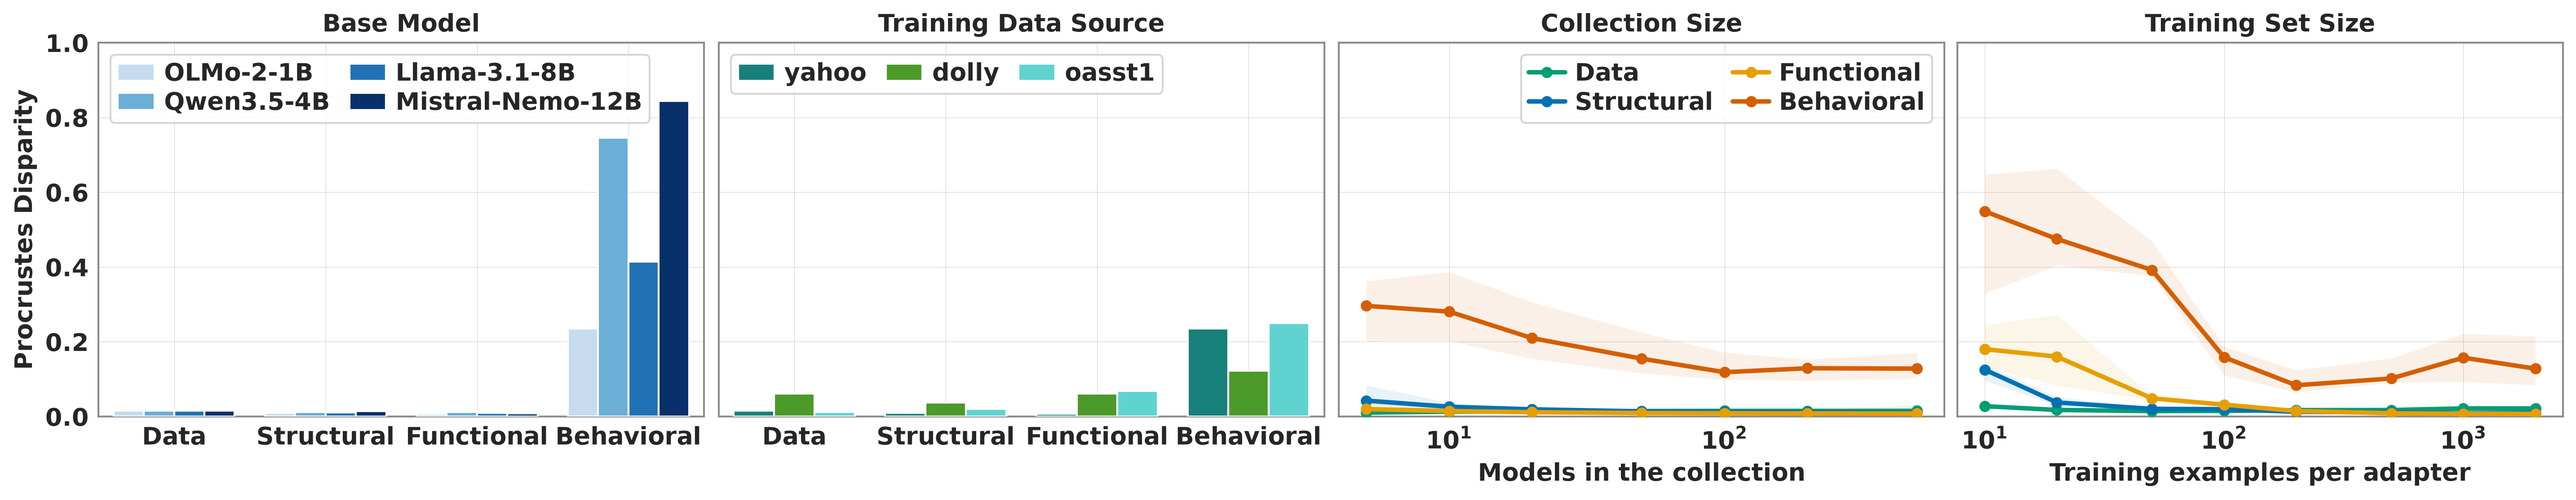
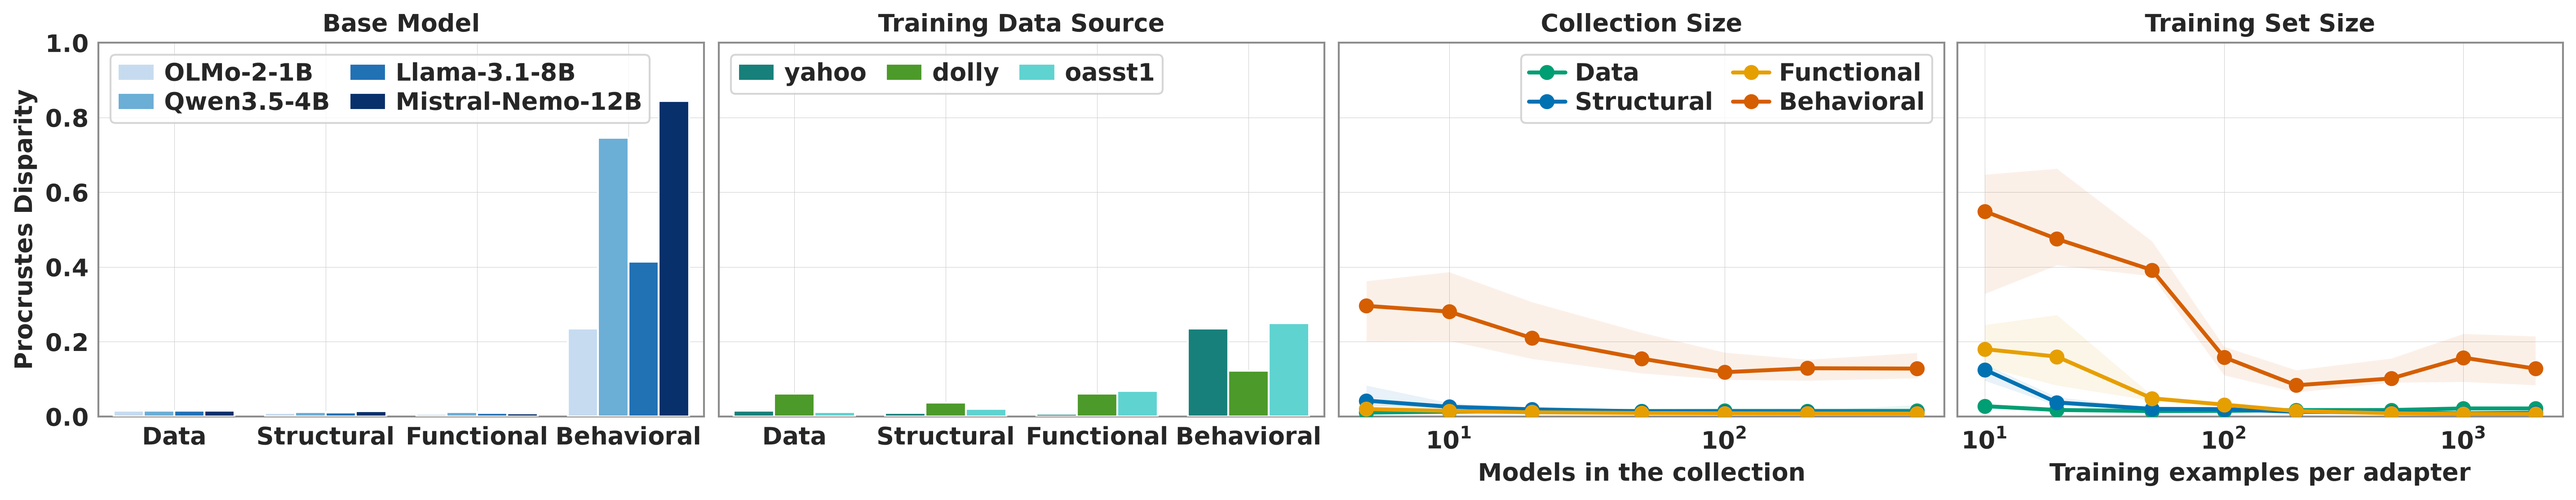
fix(figure2): place the key's labels so none of them collide
A fixed radial offset cannot be right for every point of a triangular grid:
a corner's label has a quadrant to itself, a label in the middle of a row is
boxed in by its neighbours. ternary_legend gains avoid_collisions, which
makes label_offset a floor -- each label that still overlaps another label,
a corner name or any marker is pushed further along its own radius, on
rendered boxes, until nothing overlaps.

Room had to come from somewhere too: at 8 pt bracketed, a label is wider
than the grid spacing, so no placement exists. The key's labels drop to 7 pt
and give up the brackets; the MDS panels keep [x,y,z], where four labels on
a full-size panel have all the room they need.

The MDS markers grow to 150 -- the key follows, since one mark means one
model -- and the gap between the two rows is now ROW_GAP, one knob in the
driver, opened from 0.09 to 0.16.

Claude-Session: https://claude.ai/code/session_013wT22QHA98vYoz6C7ZiiGN

diff --git a/src/plots/simplex.py b/src/plots/simplex.py
@@ -453,6 +453,51 @@ def _in_simplex_frame(coords: np.ndarray, model_ids: Sequence[str]) -> np.ndarra
         return np.asarray(coords, dtype=float)
 
 
+def _spread_labels(ax, anns, dirs, pts, marker_size, fixed=(),
+                   step: float = 2.0, max_extra: float = 60.0) -> None:
+    """Push annotated labels out along their own radii until nothing overlaps.
+
+    A fixed offset cannot be right for every point of a triangular grid: the
+    label of a point near a corner has a whole quadrant to itself, and the label
+    of a point in the middle of a row is boxed in by its two neighbours. So the
+    offset starts at the caller's value and grows, one *step* at a time and only
+    for the labels that are still colliding, until every label clears the other
+    labels, the *fixed* texts (the corner names), and every plotted marker.
+
+    Overlap is measured on rendered boxes, so this draws the figure once per
+    pass; *max_extra* caps how far a label may travel, and a label that is still
+    stuck at the cap simply stops, which is the old behaviour for that one label
+    rather than a label halfway across the panel.
+    """
+    fig = ax.figure
+    fig.canvas.draw()
+    renderer = fig.canvas.get_renderer()
+    # A marker's radius is set in points^2; give it a point of slack so a label
+    # does not sit flush against the circle's edge.
+    radius = (np.sqrt(marker_size) / 2.0 + 1.0) * fig.dpi / 72.0
+    xy = ax.transData.transform(pts)
+    base = [np.asarray(a.xyann, dtype=float) for a in anns]
+    extra = np.zeros(len(anns))
+
+    for _ in range(int(max_extra / step)):
+        boxes = [a.get_window_extent(renderer) for a in anns]
+        blocked = [f.get_window_extent(renderer) for f in fixed]
+        hits = [
+            any(i != j and b.overlaps(c) for j, c in enumerate(boxes))
+            or any(b.overlaps(c) for c in blocked)
+            or any(b.x0 - radius < x < b.x1 + radius
+                   and b.y0 - radius < y < b.y1 + radius for x, y in xy)
+            for i, b in enumerate(boxes)
+        ]
+        movable = [i for i, h in enumerate(hits) if h and extra[i] < max_extra]
+        if not movable:
+            return
+        for i in movable:
+            extra[i] += step
+            anns[i].xyann = tuple(base[i] + dirs[i] * extra[i])
+        fig.canvas.draw()
+
+
 def ternary_legend(
     ax: plt.Axes,
     model_ids: Sequence[str] | None = None,
@@ -471,6 +516,7 @@ def ternary_legend(
     pad: float | None = None,
     outline_color: str = "0.35",
     label_offset: float = 9.5,
+    avoid_collisions: bool = False,
 ) -> plt.Axes:
     """Draw the filled simplex that the point colours are read from.
 
@@ -493,7 +539,10 @@ def ternary_legend(
     a figure drawing its own axes usually wants to match them.
     *label_offset* is how far, in points, each mixture label is pushed out along
     its own radius -- the lever for a key whose triangle is drawn small, where
-    the sixteen labels crowd at the default.
+    the sixteen labels crowd at the default. *avoid_collisions* makes that
+    offset a floor rather than a fixed value: a label that still overlaps
+    another label, a corner name or a marker is pushed further out until it does
+    not (see :func:`_spread_labels`).
 
     **Three groups only.** ``_bary_to_xy`` maps onto a triangle and this function
     labels three corners; a tetrahedron has no honest 2-D barycentric picture, so
@@ -541,6 +590,9 @@ def ternary_legend(
     if fontfamily is not None:
         text_kw["fontfamily"] = fontfamily
 
+    mix_anns: list = []
+    mix_dirs: list = []
+    pts = None
     if model_ids:
         pts = _bary_to_xy(np.array([mixture_weights(m) for m in model_ids]))
         if fill_points:
@@ -559,13 +611,13 @@ def ternary_legend(
             for (x, y), mid in zip(pts, model_ids):
                 d = np.array([x, y]) - mid_xy
                 n = np.linalg.norm(d)
-                dx, dy = ((d / n * label_offset) if n > 1e-9
-                          else (0.0, label_offset * 0.85))
-                ax.annotate(
-                    label_fmt(mid), xy=(x, y), xytext=(dx, dy),
+                unit = (d / n) if n > 1e-9 else np.array([0.0, 0.85])
+                mix_dirs.append(unit)
+                mix_anns.append(ax.annotate(
+                    label_fmt(mid), xy=(x, y), xytext=tuple(unit * label_offset),
                     textcoords="offset points", ha="center", va="center",
                     fontsize=label_size, color="0.15", zorder=4, **text_kw,
-                )
+                ))
 
     # Default to the `g1`/`g2`/`g3` shorthand: the dense surrogate x metric grids have
     # no room for "Group 1", and only the cross-taxonomy figure is aimed at a
@@ -575,6 +627,7 @@ def ternary_legend(
     # labelled the vertex name has to clear that label rather than land on top
     # of it. The radial offset above is 9.5pt, so the name goes beyond it.
     up, down = (26, -25) if (model_ids and label_models) else (13, -11)
+    corner_anns: list = []
     for (x, y), key, va, ha in [
         ((0.5, _SQRT3_2), "g1", "bottom", "center"),
         ((1.0, 0.0), "g2", "top", "left"),
@@ -583,13 +636,23 @@ def ternary_legend(
         label = names.get(key, key)
         if show_topics:
             label += "\n[" + ",".join(str(t) for t in GROUP_TOPICS[key]) + "]"
-        ax.annotate(label, xy=(x, y),
-                    xytext=(0, up) if va == "bottom" else (0, down),
-                    textcoords="offset points", ha=ha, va=va,
-                    fontsize=vertex_size, color="0.15", **text_kw)
+        corner_anns.append(ax.annotate(
+            label, xy=(x, y),
+            xytext=(0, up) if va == "bottom" else (0, down),
+            textcoords="offset points", ha=ha, va=va,
+            fontsize=vertex_size, color="0.15", **text_kw))
 
     if pad is None:
         pad = 0.30 if (model_ids and label_models) else 0.22
+    if mix_anns and avoid_collisions:
+        # After the limits are set, not before: the labels are placed in points
+        # off a data point, so where they land depends on the data-to-display
+        # scale this establishes.
+        ax.set_xlim(-pad, 1.0 + pad)
+        ax.set_ylim(-pad, _SQRT3_2 + pad * 0.9)
+        ax.set_aspect("equal")
+        _spread_labels(ax, mix_anns, mix_dirs, pts, marker_size,
+                       fixed=corner_anns)
     ax.set_xlim(-pad, 1.0 + pad)
     ax.set_ylim(-pad, _SQRT3_2 + pad * 0.9)
     ax.set_aspect("equal")

diff --git a/figures/figure2/make_figures.py b/figures/figure2/make_figures.py
@@ -217,8 +217,8 @@ CORPUS_COLORS = {"yahoo": "#17807A", "dolly": "#4C9A2A", "oasst1": "#5FD3D0"}
 SWEEP_LINESTYLE = "-"
 
 #: The curves carry the panel, so they are drawn heavier than a default line.
-SWEEP_LINEWIDTH = 2.4
-SWEEP_MARKER_SIZE = 5
+SWEEP_LINEWIDTH = 2.1
+SWEEP_MARKER_SIZE = 7
 
 #: The IQR band is context for its curve, not a second series. Faint enough that
 #: two overlapping bands do not read as a third colour.
@@ -257,14 +257,14 @@ MDS_AXES = ("MDS 1", "MDS 2")
 #: ``75/25/0`` and the bottom row of five is a single smear. The key is a dense
 #: legend rather than a panel, and this is the size at which it is readable as
 #: one. The three vertex *names* are unaffected and stay at FONT_SIZE.
-KEY_LABEL_SIZE = 8
+KEY_LABEL_SIZE = 7
 
 #: The *triangle* is drawn smaller than the panels beside it -- it is a legend,
 #: not a fifth measurement -- by widening the margin around it inside an axes
 #: cell the row's grid fixes. Nothing else in the key shrinks with it: the
 #: labels, the vertex names and the markers are text and marks, sized against
 #: the rest of the figure rather than against the triangle they sit on.
-KEY_PAD = 0.5
+KEY_PAD = 0.3
 KEY_VERTEX_SIZE = FONT_SIZE
 
 #: The labels are pushed further out along their radii than the default 9.5 pt,
@@ -279,7 +279,7 @@ KEY_TITLE = "Dataset Mixture"
 #: looks up a point in the key and then finds it in a panel should be looking at
 #: the same mark; the two sources default to 26 and 130, which reads as two
 #: different kinds of thing.
-MIXTURE_MARKER_SIZE = 70
+MIXTURE_MARKER_SIZE = 150
 
 #: The colour of every axis line in the figure -- the MDS crosshairs, the panel
 #: spines, and the key's triangle, which is that key's only frame. One value, so
@@ -462,9 +462,9 @@ def draw_top_row(fig, gs, levels: list[Level], cells, ids) -> None:
     ternary_legend(kax, ids, label_models=True,
                    vertex_names=group_display(3), show_topics=False,
                    label_size=KEY_LABEL_SIZE, vertex_size=KEY_VERTEX_SIZE,
-                   marker_size=MIXTURE_MARKER_SIZE, label_fmt=bracket_label,
+                   marker_size=MIXTURE_MARKER_SIZE, label_fmt=mixture_label,
                    fill_points=True, pad=KEY_PAD, outline_color=AXIS_COLOR,
-                   label_offset=KEY_LABEL_OFFSET,
+                   label_offset=KEY_LABEL_OFFSET, avoid_collisions=True,
                    fontweight="bold", fontfamily=bold_capable_family())
     kax.set_title(KEY_TITLE, fontsize=FONT_SIZE, pad=10,
                   fontweight="bold", fontfamily=bold_capable_family())
@@ -594,6 +594,12 @@ def draw_sweep(ax, which: str, levels: list[Level], legend: bool) -> None:
 #: docstring and the caption carry it, because a longer label is clipped at the
 #: top of a panel this tall once every piece of text is at one size.
 YLABEL = "Procrustes Disparity"
+
+#: The gap between the two rows, as a fraction of the figure's height. The rows
+#: read as separate statements -- one figure repeated at four levels, then four
+#: ways that figure moves -- so they get far more air between them than the
+#: constrained layout's 0.02 default leaves. This is the one knob for it.
+ROW_GAP = 0.16
 
 #: Shared y range for the whole bottom row, per scale. Fixed rather than fitted
 #: so any two builds of this figure — the ``--behavioral`` and ``--yscale``
@@ -730,10 +736,7 @@ def build(row: str, decoding: str, yscale: str = "log",
     width = 19.0
     height = (top_h if want_top else 0) + (bottom_h if want_bottom else 0)
     fig = plt.figure(figsize=(width, height), layout="constrained")
-    #: The two rows read as separate statements -- one figure repeated at four
-    #: levels, then four ways that figure moves -- so they are given more air
-    #: between them than the default 0.02 leaves.
-    fig.get_layout_engine().set(hspace=0.09)
+    fig.get_layout_engine().set(hspace=ROW_GAP)
     outer = fig.add_gridspec(
         sum([want_top, want_bottom]), 1,
         height_ratios=[h for h, want in [(top_h, want_top), (bottom_h, want_bottom)]
